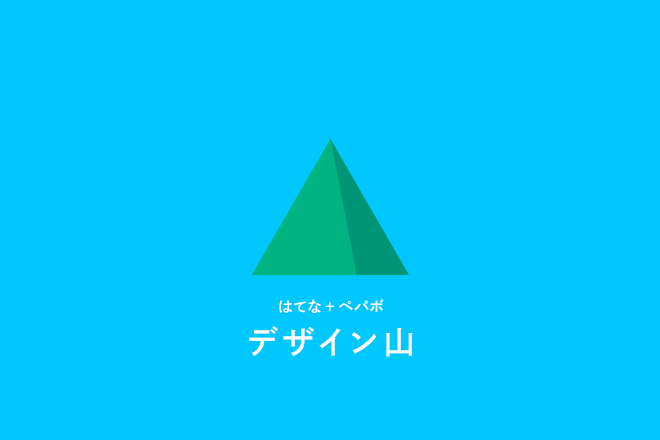
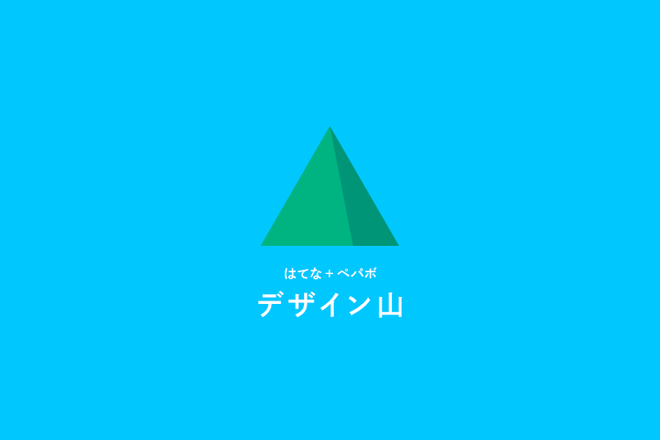
ハテブボタンつけた

Changed region(s): [[0.3636, 0.5023, 0.6364, 0.8273], [0.4242, 0.2955, 0.5758, 0.5023]]

diff --git a/build/css/style.css b/build/css/style.css
@@ -1,1 +1,1 @@
-@charset "UTF-8";/*! normalize.css v3.0.1 | MIT License | git.io/normalize */html{font-family:sans-serif;-ms-text-size-adjust:100%;-webkit-text-size-adjust:100%}body{margin:0}article,aside,details,figcaption,figure,footer,header,hgroup,main,nav,section,summary{display:block}audio,canvas,progress,video{display:inline-block;vertical-align:baseline}audio:not([controls]){display:none;height:0}[hidden],template{display:none}a{background:transparent}a:active,a:hover{outline:0}abbr[title]{border-bottom:1px dotted}b,strong{font-weight:700}dfn{font-style:italic}h1{font-size:2em;margin:.67em 0}mark{background:#ff0;color:#000}small{font-size:80%}sub,sup{font-size:75%;line-height:0;position:relative;vertical-align:baseline}sup{top:-.5em}sub{bottom:-.25em}img{border:0}svg:not(:root){overflow:hidden}figure{margin:1em 40px}hr{box-sizing:content-box;height:0}pre{overflow:auto}code,kbd,pre,samp{font-family:monospace,monospace;font-size:1em}button,input,optgroup,select,textarea{color:inherit;font:inherit;margin:0}button{overflow:visible}button,select{text-transform:none}button,html input[type=button],input[type=reset],input[type=submit]{-webkit-appearance:button;cursor:pointer}button[disabled],html input[disabled]{cursor:default}button::-moz-focus-inner,input::-moz-focus-inner{border:0;padding:0}input{line-height:normal}input[type=checkbox],input[type=radio]{box-sizing:border-box;padding:0}input[type=number]::-webkit-inner-spin-button,input[type=number]::-webkit-outer-spin-button{height:auto}input[type=search]{-webkit-appearance:textfield;box-sizing:content-box}input[type=search]::-webkit-search-cancel-button,input[type=search]::-webkit-search-decoration{-webkit-appearance:none}fieldset{border:1px solid silver;margin:0 2px;padding:.35em .625em .75em}legend{border:0;padding:0}textarea{overflow:auto}optgroup{font-weight:700}table{border-collapse:collapse;border-spacing:0}td,th{padding:0}body{color:#fff;font-family:Helvetica,'秀英角ゴシック銀 L',Shuei KakuGo Gin L,sans-serif;-webkit-font-smoothing:antialiased;letter-spacing:.025em;line-height:2.2em}a{color:#fff;opacity:1;-webkit-transition:opacity .2s;transition:opacity .2s}a:hover{color:#fff;opacity:.65}ul,li{list-style:none;list-style-image:none;padding:0}h1,h2{font-weight:400}html,body{width:100%;height:100%}.page{position:fixed;top:0;right:0;bottom:0;left:0;width:100%;height:100%;overflow:hidden;z-index:1}.overlay{position:fixed;top:0;right:0;bottom:0;left:0;width:100%;height:100%;overflow-y:auto;-webkit-overflow-scrolling:touch;z-index:2}.contents{padding:0 20px}@media screen and (min-width:641px){.contents{width:480px;padding:0;margin:0 auto}}.header{position:relative;height:100%}.header__content{position:absolute;bottom:20px;left:0;width:100%;text-align:center}.header__content img{width:106px}.section{margin:80px 0}.section__heading{text-align:center}.section__body p{text-align:justify}.section__body ul{padding-left:21px;border-left:1px solid #fff}.section__body dl{margin:20px 0}.section__body dl dt,.section__body dl dd{display:inline-block;vertical-align:middle}.section__body dl dt{width:108px;font-weight:700}.section__body dl dd{margin:0;padding-left:21px;border-left:1px solid #fff}.footer--nav li{display:inline-block;padding:0 10px;text-align:center;vertical-align:middle}.footer--nav li img{width:60px}.footer{font-size:12px;padding:20px 0 80px;text-align:center}.button{height:48px;line-height:48px;text-align:center;display:block;color:#fff;font-size:18px;border:2px solid #fff;text-decoration:none;cursor:pointer}.if-phone-show,.if-desktop-show{display:none}@media screen and (max-width:640px){.if-phone-hide{display:none}.if-phone-show{display:block}}@media screen and (min-width:641px){.if-desktop-hide{display:none}.if-desktop-show{display:block}}
+@charset "UTF-8";/*! normalize.css v3.0.1 | MIT License | git.io/normalize */html{font-family:sans-serif;-ms-text-size-adjust:100%;-webkit-text-size-adjust:100%}body{margin:0}article,aside,details,figcaption,figure,footer,header,hgroup,main,nav,section,summary{display:block}audio,canvas,progress,video{display:inline-block;vertical-align:baseline}audio:not([controls]){display:none;height:0}[hidden],template{display:none}a{background:transparent}a:active,a:hover{outline:0}abbr[title]{border-bottom:1px dotted}b,strong{font-weight:700}dfn{font-style:italic}h1{font-size:2em;margin:.67em 0}mark{background:#ff0;color:#000}small{font-size:80%}sub,sup{font-size:75%;line-height:0;position:relative;vertical-align:baseline}sup{top:-.5em}sub{bottom:-.25em}img{border:0}svg:not(:root){overflow:hidden}figure{margin:1em 40px}hr{box-sizing:content-box;height:0}pre{overflow:auto}code,kbd,pre,samp{font-family:monospace,monospace;font-size:1em}button,input,optgroup,select,textarea{color:inherit;font:inherit;margin:0}button{overflow:visible}button,select{text-transform:none}button,html input[type=button],input[type=reset],input[type=submit]{-webkit-appearance:button;cursor:pointer}button[disabled],html input[disabled]{cursor:default}button::-moz-focus-inner,input::-moz-focus-inner{border:0;padding:0}input{line-height:normal}input[type=checkbox],input[type=radio]{box-sizing:border-box;padding:0}input[type=number]::-webkit-inner-spin-button,input[type=number]::-webkit-outer-spin-button{height:auto}input[type=search]{-webkit-appearance:textfield;box-sizing:content-box}input[type=search]::-webkit-search-cancel-button,input[type=search]::-webkit-search-decoration{-webkit-appearance:none}fieldset{border:1px solid silver;margin:0 2px;padding:.35em .625em .75em}legend{border:0;padding:0}textarea{overflow:auto}optgroup{font-weight:700}table{border-collapse:collapse;border-spacing:0}td,th{padding:0}body{color:#fff;font-family:Helvetica,'秀英角ゴシック銀 L',Shuei KakuGo Gin L,sans-serif;-webkit-font-smoothing:antialiased;letter-spacing:.025em;line-height:2.2em}a{color:#fff;opacity:1;-webkit-transition:opacity .2s;transition:opacity .2s}a:hover{color:#fff;opacity:.65}ul,li{list-style:none;list-style-image:none;padding:0}h1,h2{font-weight:400}html,body{width:100%;height:100%}.page{position:fixed;top:0;right:0;bottom:0;left:0;width:100%;height:100%;overflow:hidden;z-index:1}.overlay{position:fixed;top:0;right:0;bottom:0;left:0;width:100%;height:100%;overflow-y:auto;-webkit-overflow-scrolling:touch;z-index:2}.contents{padding:0 20px}@media screen and (min-width:641px){.contents{width:480px;padding:0;margin:0 auto}}.header{position:relative;height:100%}.header__content{position:absolute;bottom:20px;left:0;width:100%;text-align:center}.header__logo{width:106px}.section{margin:80px 0}.section__heading{text-align:center}.section__body p{text-align:justify}.section__body ul{padding-left:21px;border-left:1px solid #fff}.section__body dl{margin:20px 0}.section__body dl dt,.section__body dl dd{display:inline-block;vertical-align:middle}.section__body dl dt{width:108px;font-weight:700}.section__body dl dd{margin:0;padding-left:21px;border-left:1px solid #fff}.footer--nav li{display:inline-block;padding:0 10px;text-align:center;vertical-align:middle}.footer--nav li img{width:60px}.footer{font-size:12px;padding:20px 0 80px;text-align:center}.button{height:48px;line-height:48px;text-align:center;display:block;color:#fff;font-size:18px;border:2px solid #fff;text-decoration:none;cursor:pointer}.if-phone-show,.if-desktop-show{display:none}@media screen and (max-width:640px){.if-phone-hide{display:none}.if-phone-show{display:block}}@media screen and (min-width:641px){.if-desktop-hide{display:none}.if-desktop-show{display:block}}

diff --git a/index.html b/index.html
@@ -40,7 +40,7 @@
         <div class="contents">
           <header class="header js-adjust-window">
             <div class="header__content">
-              <img src="build/images/yama-logo@2x.png" alt="デザイン山">
+              <img src="build/images/yama-logo@2x.png" alt="デザイン山" class="header__logo">
               <p>
                 ペパボ + はてな
               </p>
@@ -54,6 +54,7 @@
                 2015.12.10 Thu @GMO Yours
               </p>
             </div>
+
           </header>
           <section class="section">
             <h2 class="section__heading">
@@ -236,6 +237,9 @@
                 </a>
               </li>
             </ul>
+            <a href="http://b.hatena.ne.jp/entry/http://designyama.com/" class="hatena-bookmark-button" data-hatena-bookmark-title="デザイン山 - Design Yama -" data-hatena-bookmark-layout="standard-balloon" data-hatena-bookmark-lang="en" title="このエントリーをはてなブックマークに追加">
+              <img src="https://b.st-hatena.com/images/entry-button/button-only@2x.png" alt="このエントリーをはてなブックマークに追加" width="20" height="20" style="border: none;" />
+            </a>
             <p>
               Copyright 2015 &copy; DESIGN YAMA<br class="if-desktop-hide"><span class="if-desktop-hide">&nbsp;</span> All rights reserved.
             </p>
@@ -251,6 +255,8 @@
     <script src="build/js/obj/Bird.js"></script>
     <script src="build/js/scripts.js"></script>
 
+    <!-- Hatena Bookmark -->
+    <script type="text/javascript" src="https://b.st-hatena.com/js/bookmark_button.js" charset="utf-8" async="async"></script>
     <!-- typesquare -->
     <script type="text/javascript" src="//typesquare.com/accessor/script/typesquare.js?Y7Lga5KpPn8%3D" charset="utf-8"></script>
 

diff --git a/sass/lib/_layout.scss b/sass/lib/_layout.scss
@@ -45,9 +45,9 @@ body {
   left: 0;
   width: 100%;
   text-align: center;
-  img {
-    width: 106px;
-  }
+}
+.header__logo {
+  width: 106px;
 }
 .section {
   margin: 80px 0;

diff --git a/readme.md b/readme.md
@@ -1,4 +1,6 @@
-# Design Yama
+# ペパボ + はてな「デザイン山」
+
+DESIGN YAMA vol.1
 
 2015年12月10日（木曜日） 19:00 開場
 
@@ -8,6 +10,6 @@ http://designyama.github.io/
 
 ## デザインの話をしよう。
 
-はじめまして、デザイン山です。デザインするということは、さまざまな選択肢の中からひとつを選ぶということだと思います。選ぶための方法論やフレームワーク、道具の使い方を語ることはあっても、どうして選んだのかという理由は、これまであまり話されてこなかったのではないでしょうか。デザイナーがそれぞれ大切にしていること、それをカッコいいと思うこころが知りたいです。そんな話が聞けたらいいなと思って、みんなでおしゃべりをするイベントを開催します。
+はじめまして、デザイン山です。デザインするということは、さまざまな選択肢の中からひとつを選ぶということだと思います。選ぶための方法論やフレームワーク、道具の使い方を語ることはあっても、どうして選んだのかという理由は、これまであまり話されてこなかったのではないでしょうか。デザイナーがそれぞれ大切にしていること、それをカッコいいと思うこころが知りたいです。そんな話が聞けたらいいなと思って、ペパボとはてなが、みんなでおしゃべりをするイベントを開催します。
 
-第1回（第2回があるかわかりませんが）は、それぞれが好きなものをまくらにして、デザインの話をします。会場には2つの「山」があって、モデレータがいます。好きな場所で、好きなように話してもいいよ。デザイン山は、みんなでつくるイベントです。
+デザイン山には、山岳ガイドがいます。ペパボとはてなのデザイナを中心に、ゲストガイドもお招きして、さまざまな角度から山を眺めます。山岳ガイドといっしょに、入れ替わり立ち替わり、みんなで「自己紹介」したり、「好きなもの」「バックグラウンド」「役に立たない」ような、デザインの話をしましょう。デザイン山は、みんなでつくるイベントです。
